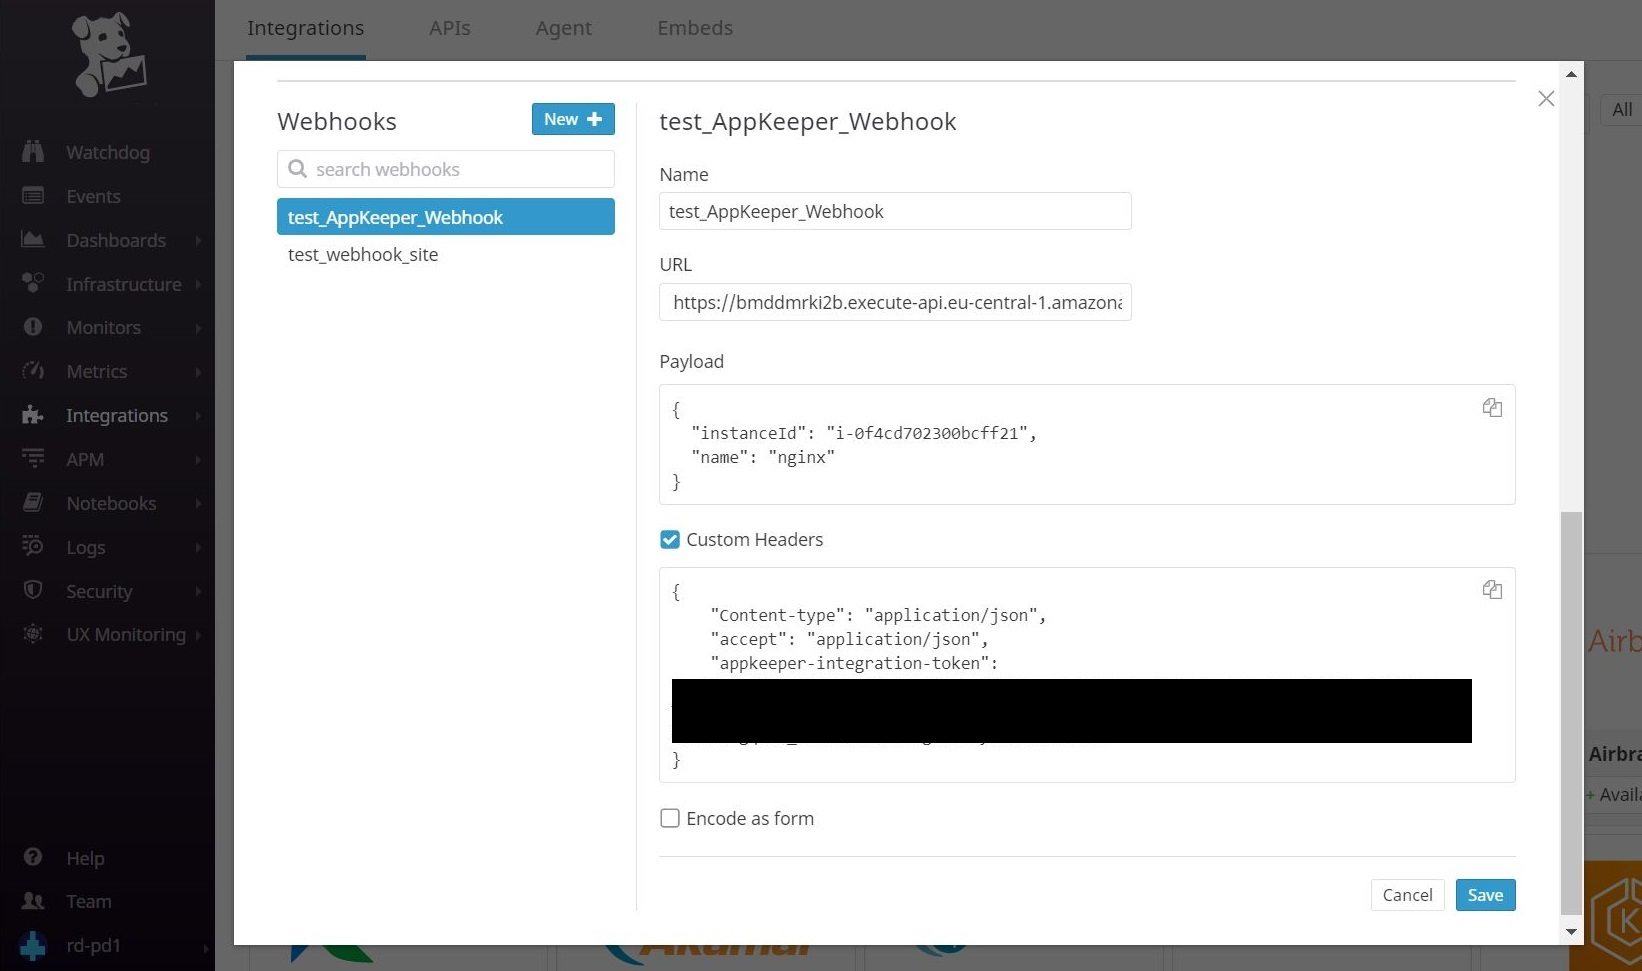
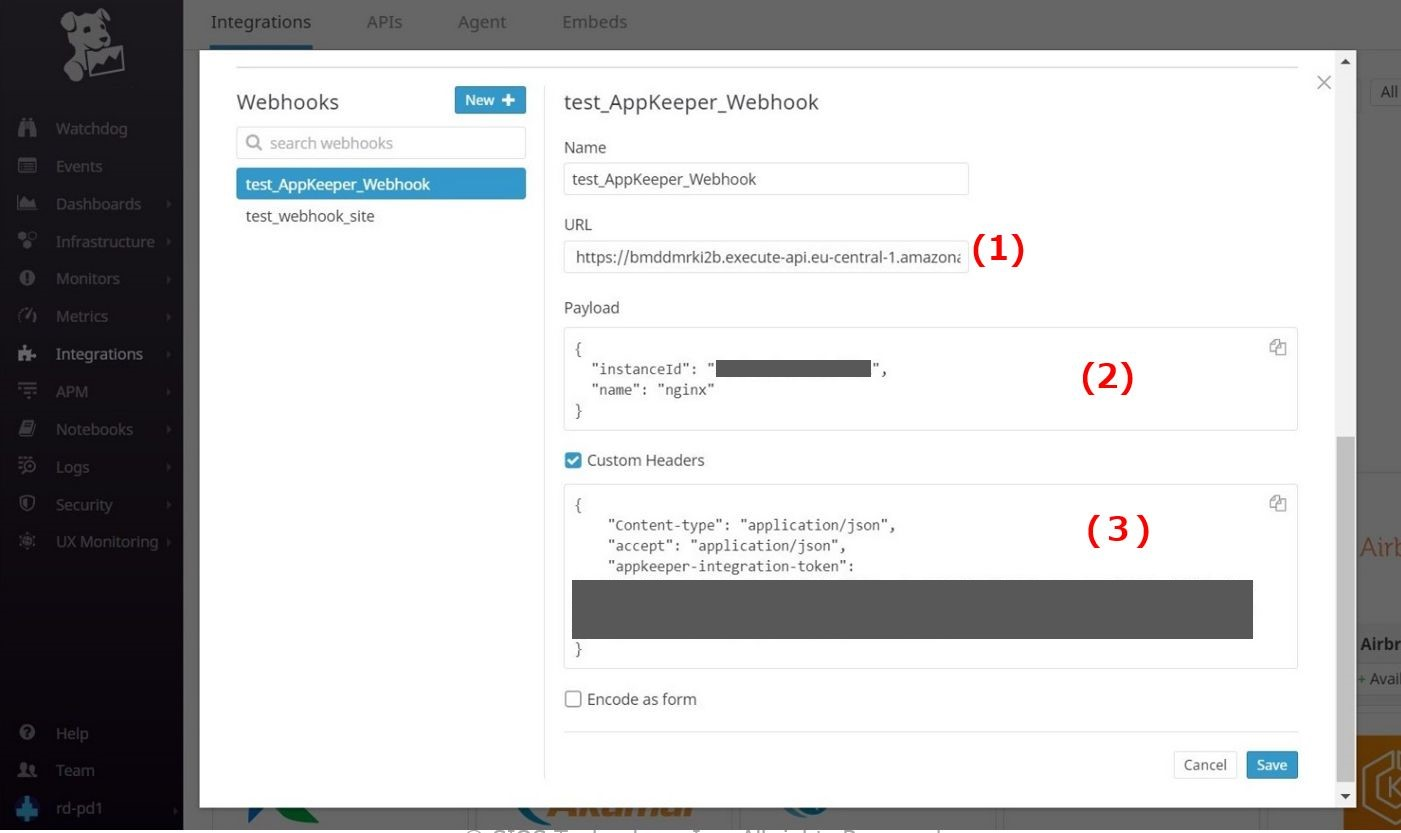
Fix README according to Alex@datadog's advice.

diff --git a/appkeeper/README.md b/appkeeper/README.md
@@ -8,27 +8,61 @@ the need for expensive manual intervention.
 
 When Datadog finds the alerts, it restarts the Service via AppKeeper Recovery API.
 
+![snapshot][1]
+
+![snapshot][2]
+
 ## Setup
 
 ### Step 1. Get the SIOS AppKeeper API Key
 
 Get the SIOS AppKeeper API Key from AppKeeper GUI.
 
-![snapshot][2]
-
-### Step 2. Define the Webhook in the Datadog Integration Dashboard
+1. Click  the Account Information, and open the modal dialog
+2. Click Get Token
+3. Copy the Token
 
 ![snapshot][3]
 
-### Step 3. Define the PAYLOAD and CUSTOM HEADERS.
+### Step 2. Define the Webhook in the Datadog Integration Dashboard
+
+1. Click the Integration
+2. Click the Webhooks (*If you did not installed the Webhook, please install the Webhook.)
 
 ![snapshot][4]
+
+### Step 3. Define the PAYLOAD and CUSTOM HEADERS
 
 1. Enter the **URL**: "https://api.appkeeper.sios.com/v2/integration/{AWS_account_ID}/actions/recover"
 2. Enter the Instance ID and name of Services for the monitoring instance in the **Payload**
 3. Register the AppKeeper API token in the **Custom Headers** "**appkeeper-integration-token**"
 
-For more information on the AppKeeper's Integration, review the Appkeeper [documentation][5].
+![snapshot][5]
+
+### Step 4. Integrate with Datadog monitoring
+
+As an example, create a new synthetic test and set up the integration with AppKeeper.
+
+1. UX Monitoring – Select Synthetic Test
+2. Click the New Test for creating the Synthetics as new
+
+![snapshot][6]
+
+3. Setting the fields of monitoring. It set for the Web page
+
+![snapshot][7]
+
+4. Add the Webhook that set in Step 2 and Step 3 in the Notification setting(Notify your team)
+
+![snapshot][8]
+
+5. Datadog has the function to suppress notifications when an alert is raised repeatedly.
+If you set it, AppKeeper's recovery API will not be called by Webhook. Please don't set it to inhibit.
+
+![snapshot][9]
+
+
+For more information on the AppKeeper's Integration, review the Appkeeper [documentation][10].
 
 ## Data Collected
 
@@ -36,10 +70,16 @@ For more information on the AppKeeper's Integration, review the Appkeeper [docum
 
 ## Troubleshooting
 
-Need help? Contact [Datadog support][1].
+Need help? Contact [Datadog support][11].
 
-[1]: https://docs.datadoghq.com/help/
-[2]: https://raw.githubusercontent.com/DataDog/integrations-extras/master/appkeeper/images/get_token2.png
-[3]: https://raw.githubusercontent.com/DataDog/integrations-extras/master/appkeeper/images/datadog_webhook.jpg
-[4]: https://raw.githubusercontent.com/DataDog/integrations-extras/master/appkeeper/images/payload_header.jpg
-[5]: https://sioscoati.zendesk.com/hc/en-us/articles/900000978443-Integration
+[1]: https://raw.githubusercontent.com/DataDog/integrations-extras/master/appkeeper/images/integration.jpg
+[2]: https://raw.githubusercontent.com/DataDog/integrations-extras/master/appkeeper/images/integration2.jpg
+[3]: https://raw.githubusercontent.com/DataDog/integrations-extras/master/appkeeper/images/get_token.jpg
+[4]: https://raw.githubusercontent.com/DataDog/integrations-extras/master/appkeeper/images/datadog_webhook.jpg
+[5]: https://raw.githubusercontent.com/DataDog/integrations-extras/master/appkeeper/images/payload_header.jpg
+[6]: https://raw.githubusercontent.com/DataDog/integrations-extras/master/appkeeper/images/synthetic_test.jpg
+[7]: https://raw.githubusercontent.com/DataDog/integrations-extras/master/appkeeper/images/synthetic_test2.jpg
+[8]: https://raw.githubusercontent.com/DataDog/integrations-extras/master/appkeeper/images/synthetic_test3.jpg
+[9]: https://raw.githubusercontent.com/DataDog/integrations-extras/master/appkeeper/images/synthetic_test4.jpg
+[10]: https://sioscoati.zendesk.com/hc/en-us/articles/900000978443-Integration
+[11]: https://docs.datadoghq.com/help/
